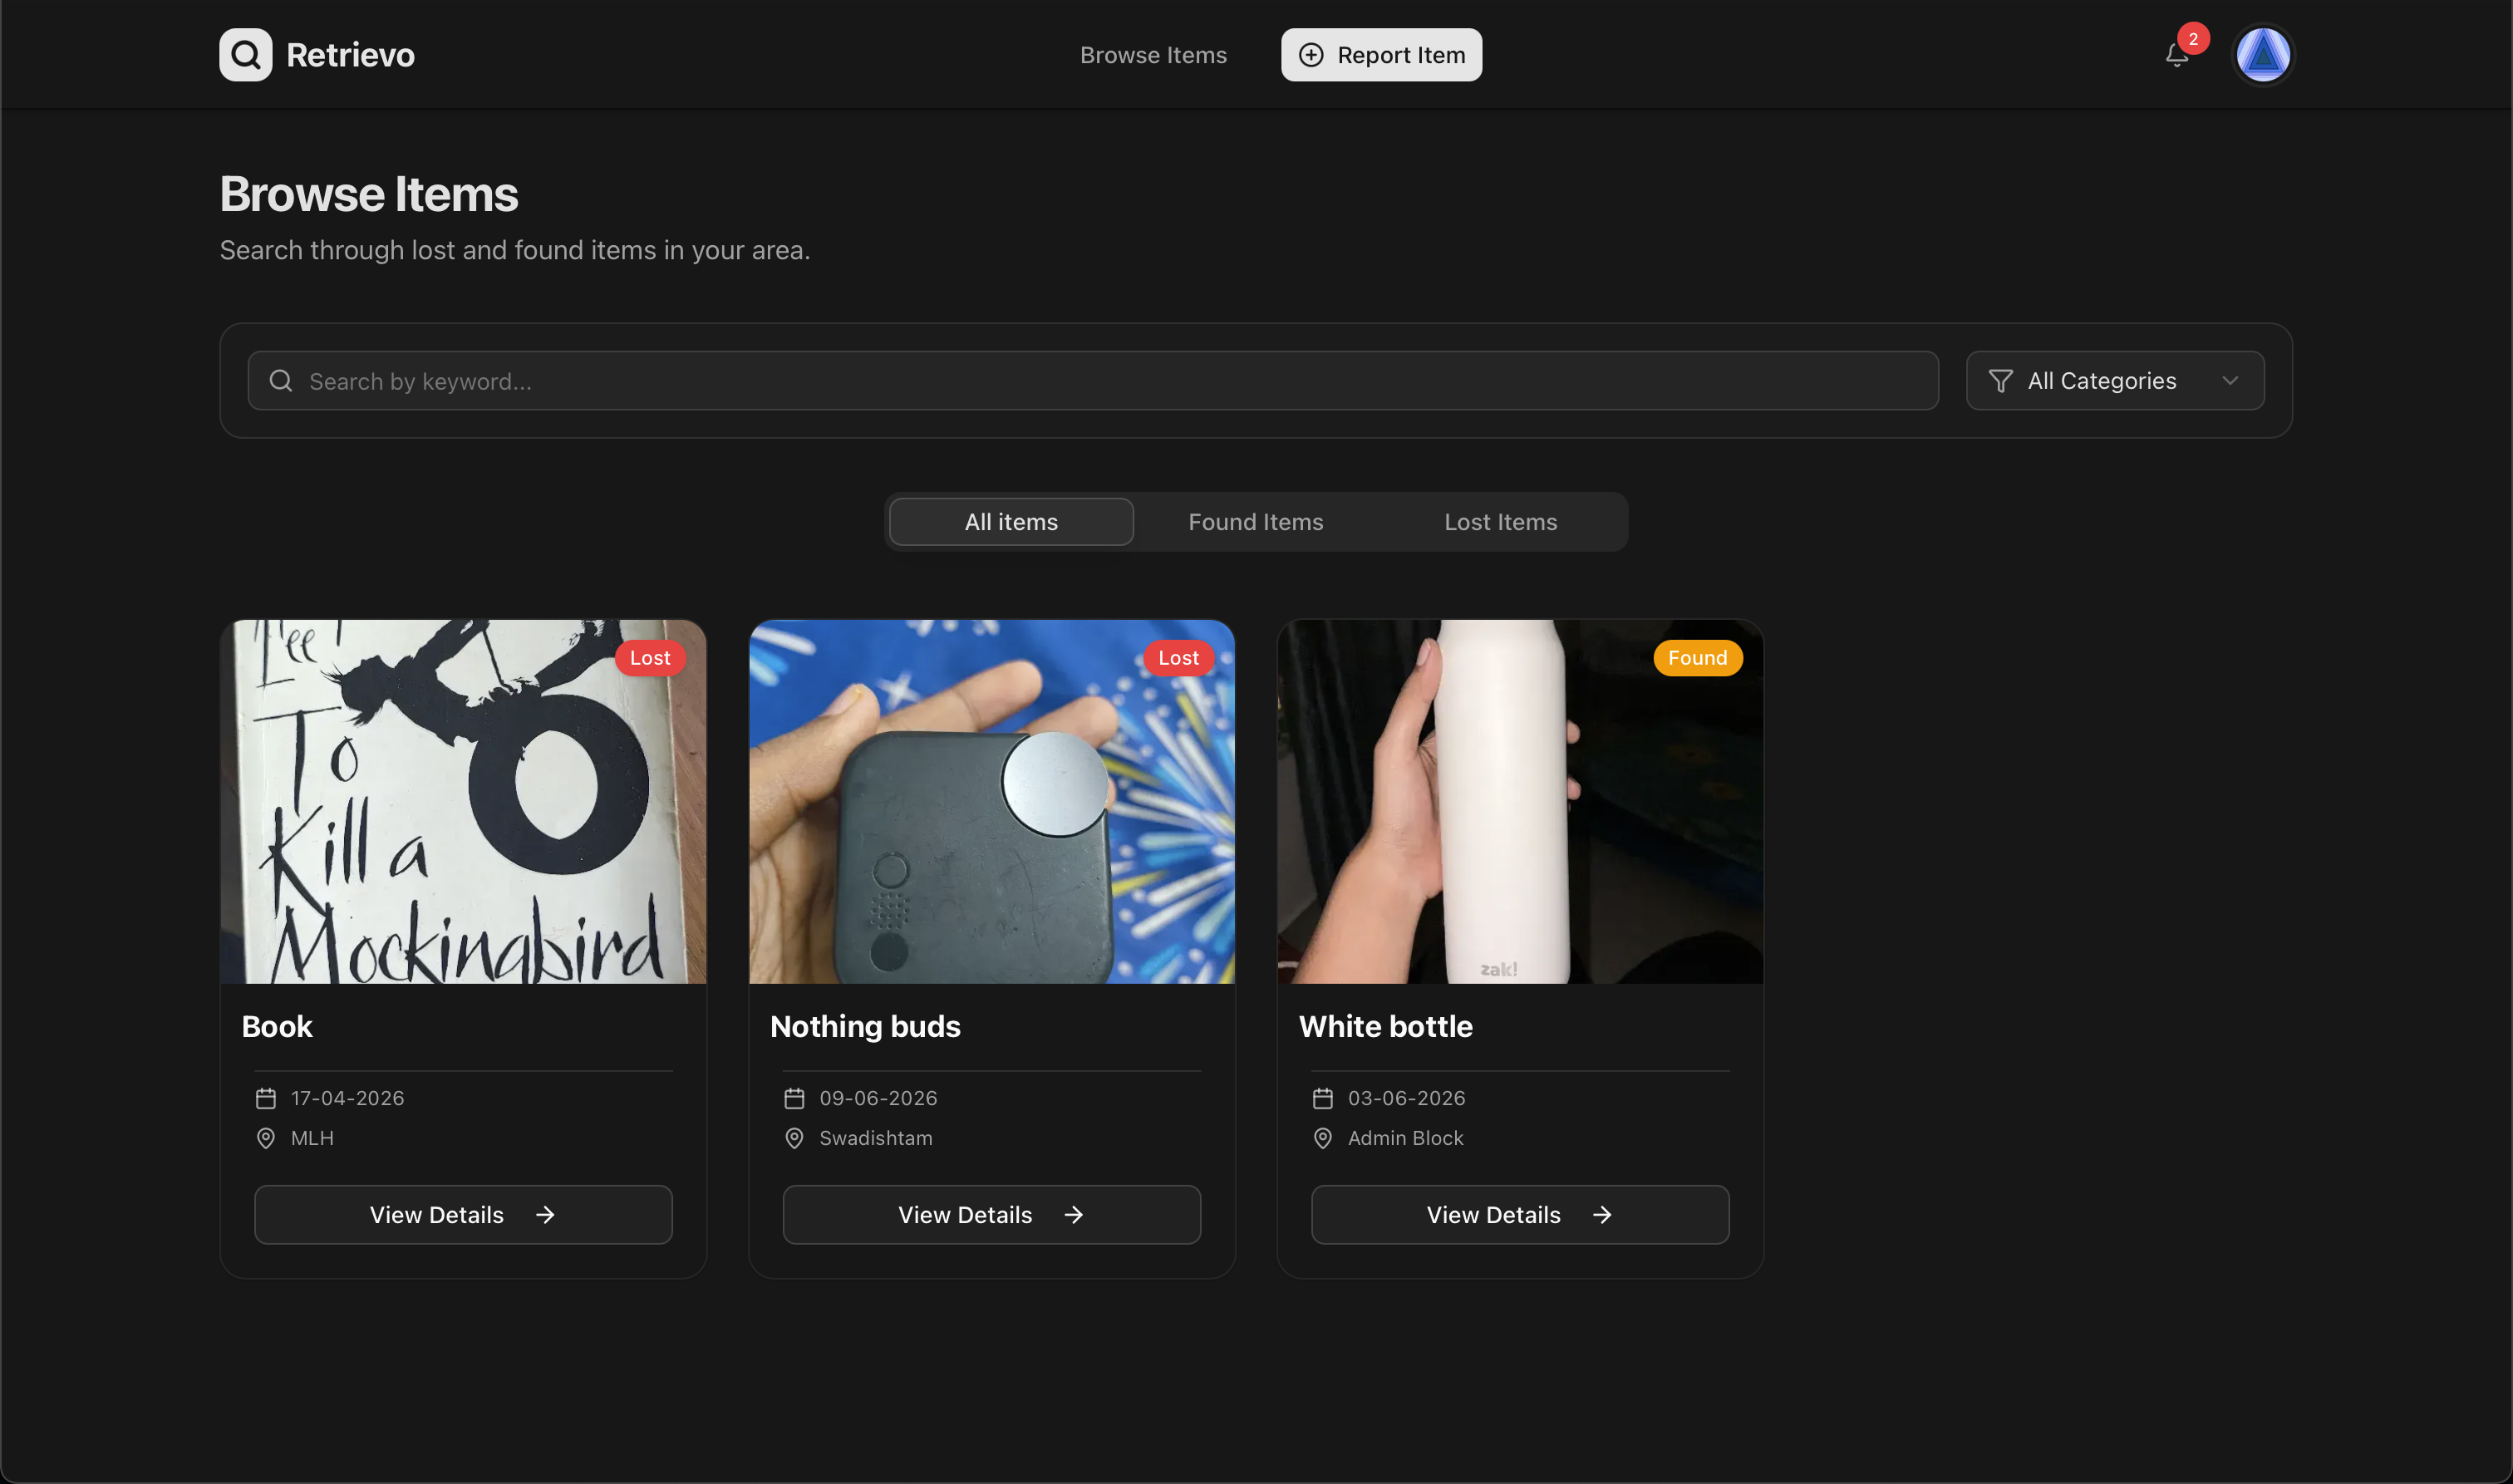
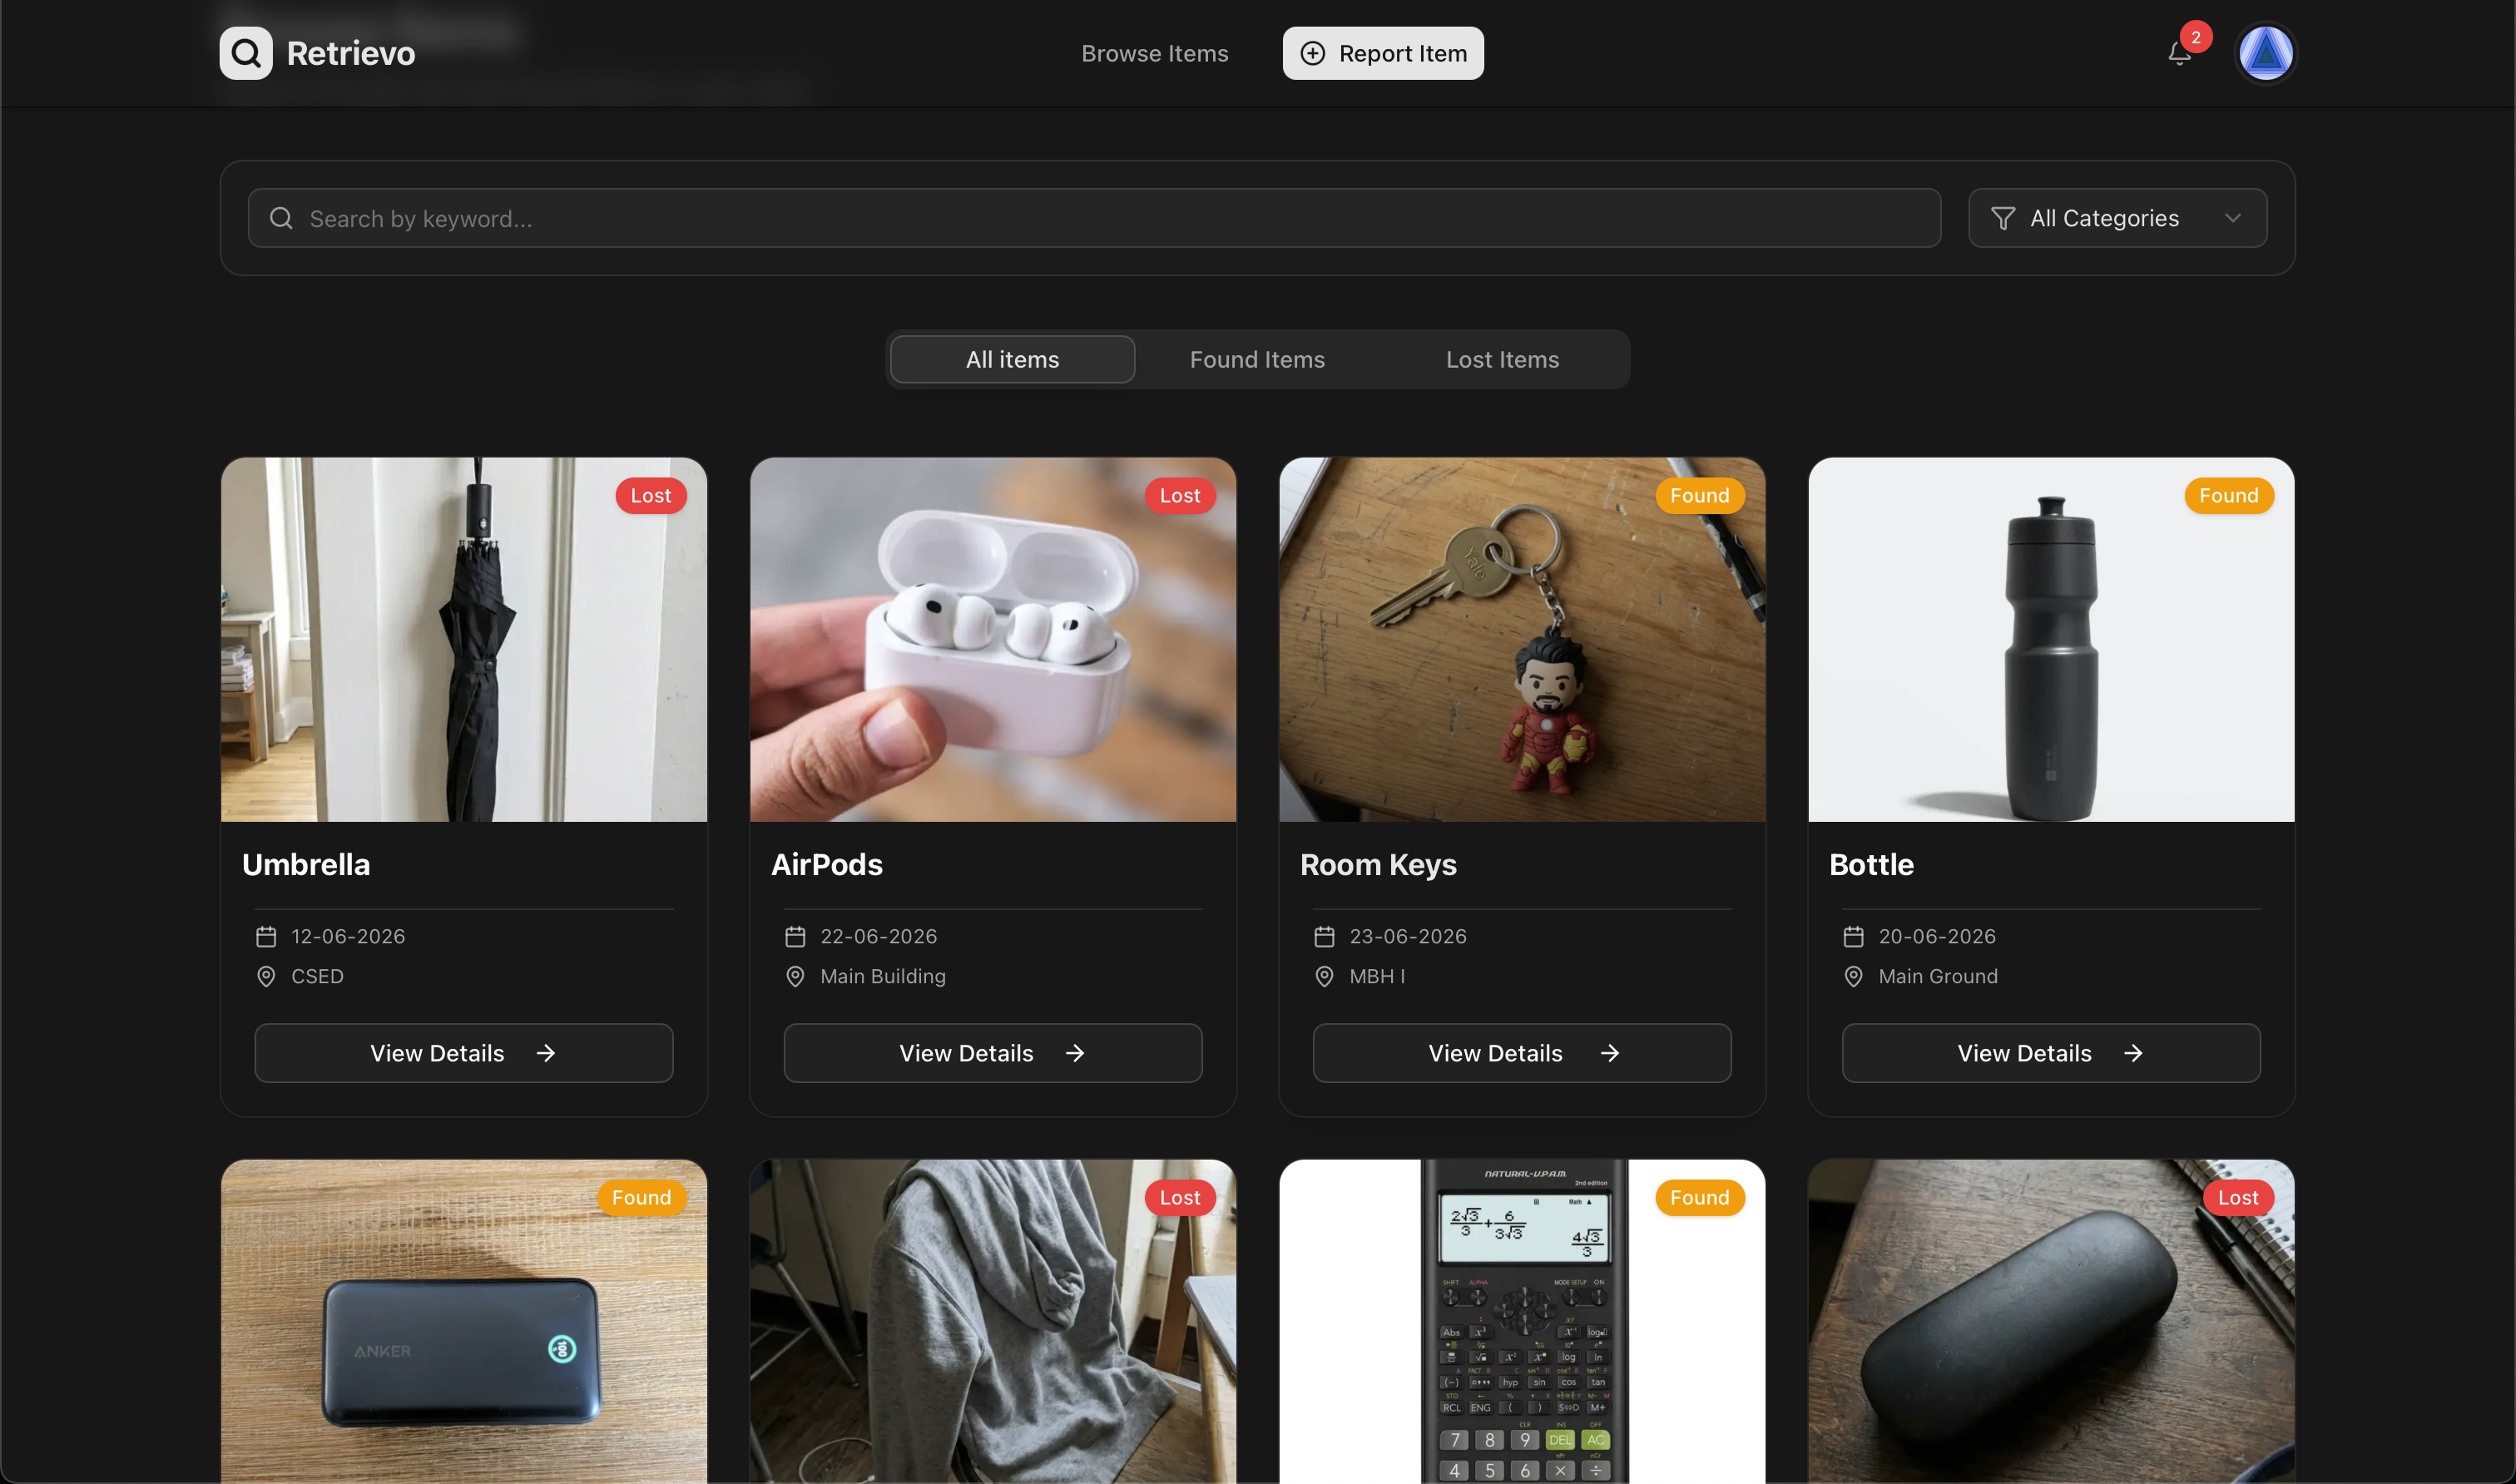
chore: update asset
- comment out location visibility based on hostel settings

diff --git a/app/report/item-form-client.tsx b/app/report/item-form-client.tsx
@@ -109,15 +109,16 @@ export function ItemFormClient({ session, type }: ItemFormClientProps) {
             groups[category].push({ value: key, label });
         });
 
+        //* Comment restrictions for now
         // Apply constraint for hostels
-        if (groups["Hostels"]) {
-            groups["Hostels"] = groups["Hostels"].filter(item => {
-                if (item.value === "lh" || item.value === "mlh") {
-                    return session?.user?.hostel !== "boys";
-                }
-                return true;
-            });
-        }
+        // if (groups["Hostels"]) {
+        //     groups["Hostels"] = groups["Hostels"].filter(item => {
+        //         if (item.value === "lh" || item.value === "mlh") {
+        //             return session?.user?.hostel !== "boys";
+        //         } else if (item.value === '')
+        //         return true;
+        //     });
+        // }
 
         return Object.entries(groups).map(([category, items]) => ({ category, items }));
     })();

diff --git a/components/landing-page.tsx b/components/landing-page.tsx
@@ -233,9 +233,9 @@ export function Footer() {
                   </Link>
                 </li>
                 <li>
-                  <Link href="/contact" className="hover:text-primary transition-colors underline">
+                  <a href="mailto:[email redacted]" className="hover:text-primary transition-colors underline">
                     Contact Us
-                  </Link>
+                  </a>
                 </li>
               </ul>
             </div>